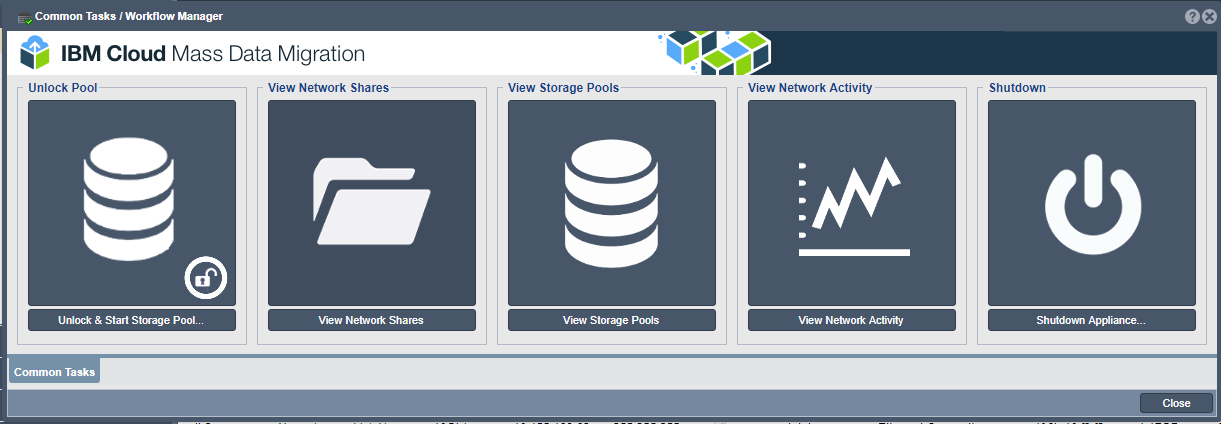
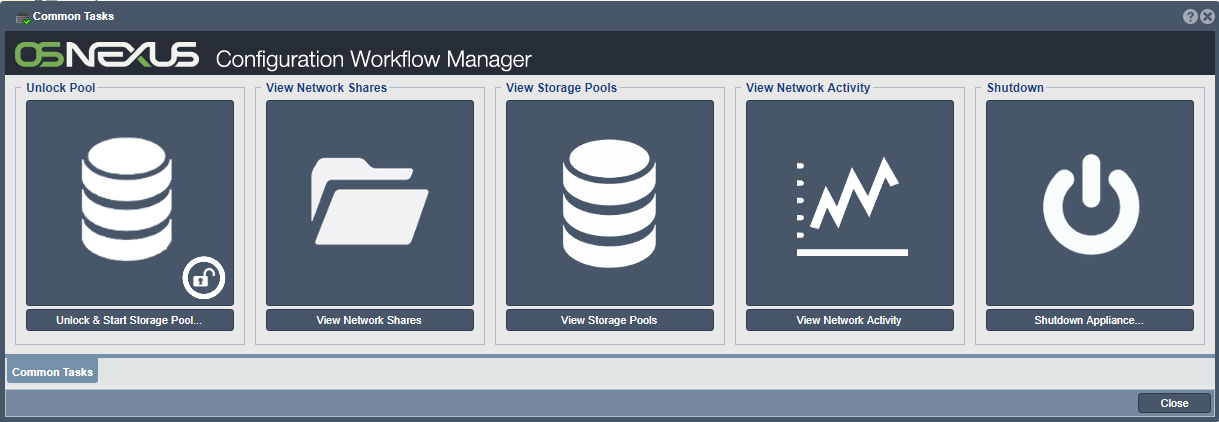
DOCS-4251
UI updates need to be reflected in the user guide

diff --git a/user-instructions.md b/user-instructions.md
@@ -2,7 +2,7 @@
 
 copyright:
   years: 2018
-lastupdated: "2018-08-02"
+lastupdated: "2018-08-10"
 
 ---
 {:new_window: target="_blank"}
@@ -94,7 +94,7 @@ IP settings can be viewed/managed from the LCD screen after the device is powere
 5. Open your browser, and enter `HTTPS://Your-Eth1-IPAddress`. Replace `Your-Eth1-IPAddress` with the Eth1 for your network configuration. Accept the certificate exception.
 
 6. Use the provided user name and password to log in.<br/>
-    ![Login page](/images/Login.png)
+    ![Login page](/images/login.png)
 
 7. The workflow wizard presents access to the specific items that are generally used in order from left to right.<br/>
     ![Workflow icons](/images/workflow.png) <br/>
@@ -103,22 +103,22 @@ IP settings can be viewed/managed from the LCD screen after the device is powere
 8.	Activate the pre-configured storage pool.
     - Click **Unlock and Start Storage Pool**.
     - Enter your Storage Pool Passphrase, and click **OK**.
-      ![Activate Storage Pool](/images/UnlockPool.png)
+      ![Activate Storage Pool](/images/Unlock.png)
 
 9. By default, the share has both NFS and SMB protocols that are enabled with no access restrictions. To restrict access to this share (for NFS or SMB), right-click the share name, and select the appropriate menu item.<br/>
-   ![Restrict Share Access](/images/ShareControls.png)
+   ![Restrict Share Access](/images/ShareAccessControl.png)
 
 10. When the storage pool is enabled, the NFS share is available to mount. In the workflow, click **View Network Shares** to see the network shares view. Close the workflow, right-click the share, and select mount command to see the share name and mount information. Mount the share on your source server. Be sure to specify the 10 GB link IP address.
     ![Mounting the share](/images/MountCommand.png)
 
 11. Copy your data to the NFS share. In the workflow, click **View Network Activity** to show inbound Ethernet load as data is transferred to the device on the 10 GB link.
-    ![View activity](/images/UserGuide13.png)
+    ![View activity](/images/SystemNetworkPerf.png)
 
 12. In the workflow, click **View Storage pool** to monitor storage usage and IOPS on the device.
-    ![View Storage Pool](/images/UserGuide14.png)
+    ![View Storage Pool](/images/SystemStoragePoolPerf.png)
 
 13.	When the load is complete, gracefully power down the system. In the workflow, click **Shutdown Appliance...**.
-    ![Shutting Appliance Down](/images/Shutdown.png)
+    ![Shutting Appliance Down](/images/SystemShutdown.png)
 
 14.	Disconnect the device, return the power cable, Ethernet cable, and SFP+ adapter into their storage locations under the lid.
 
